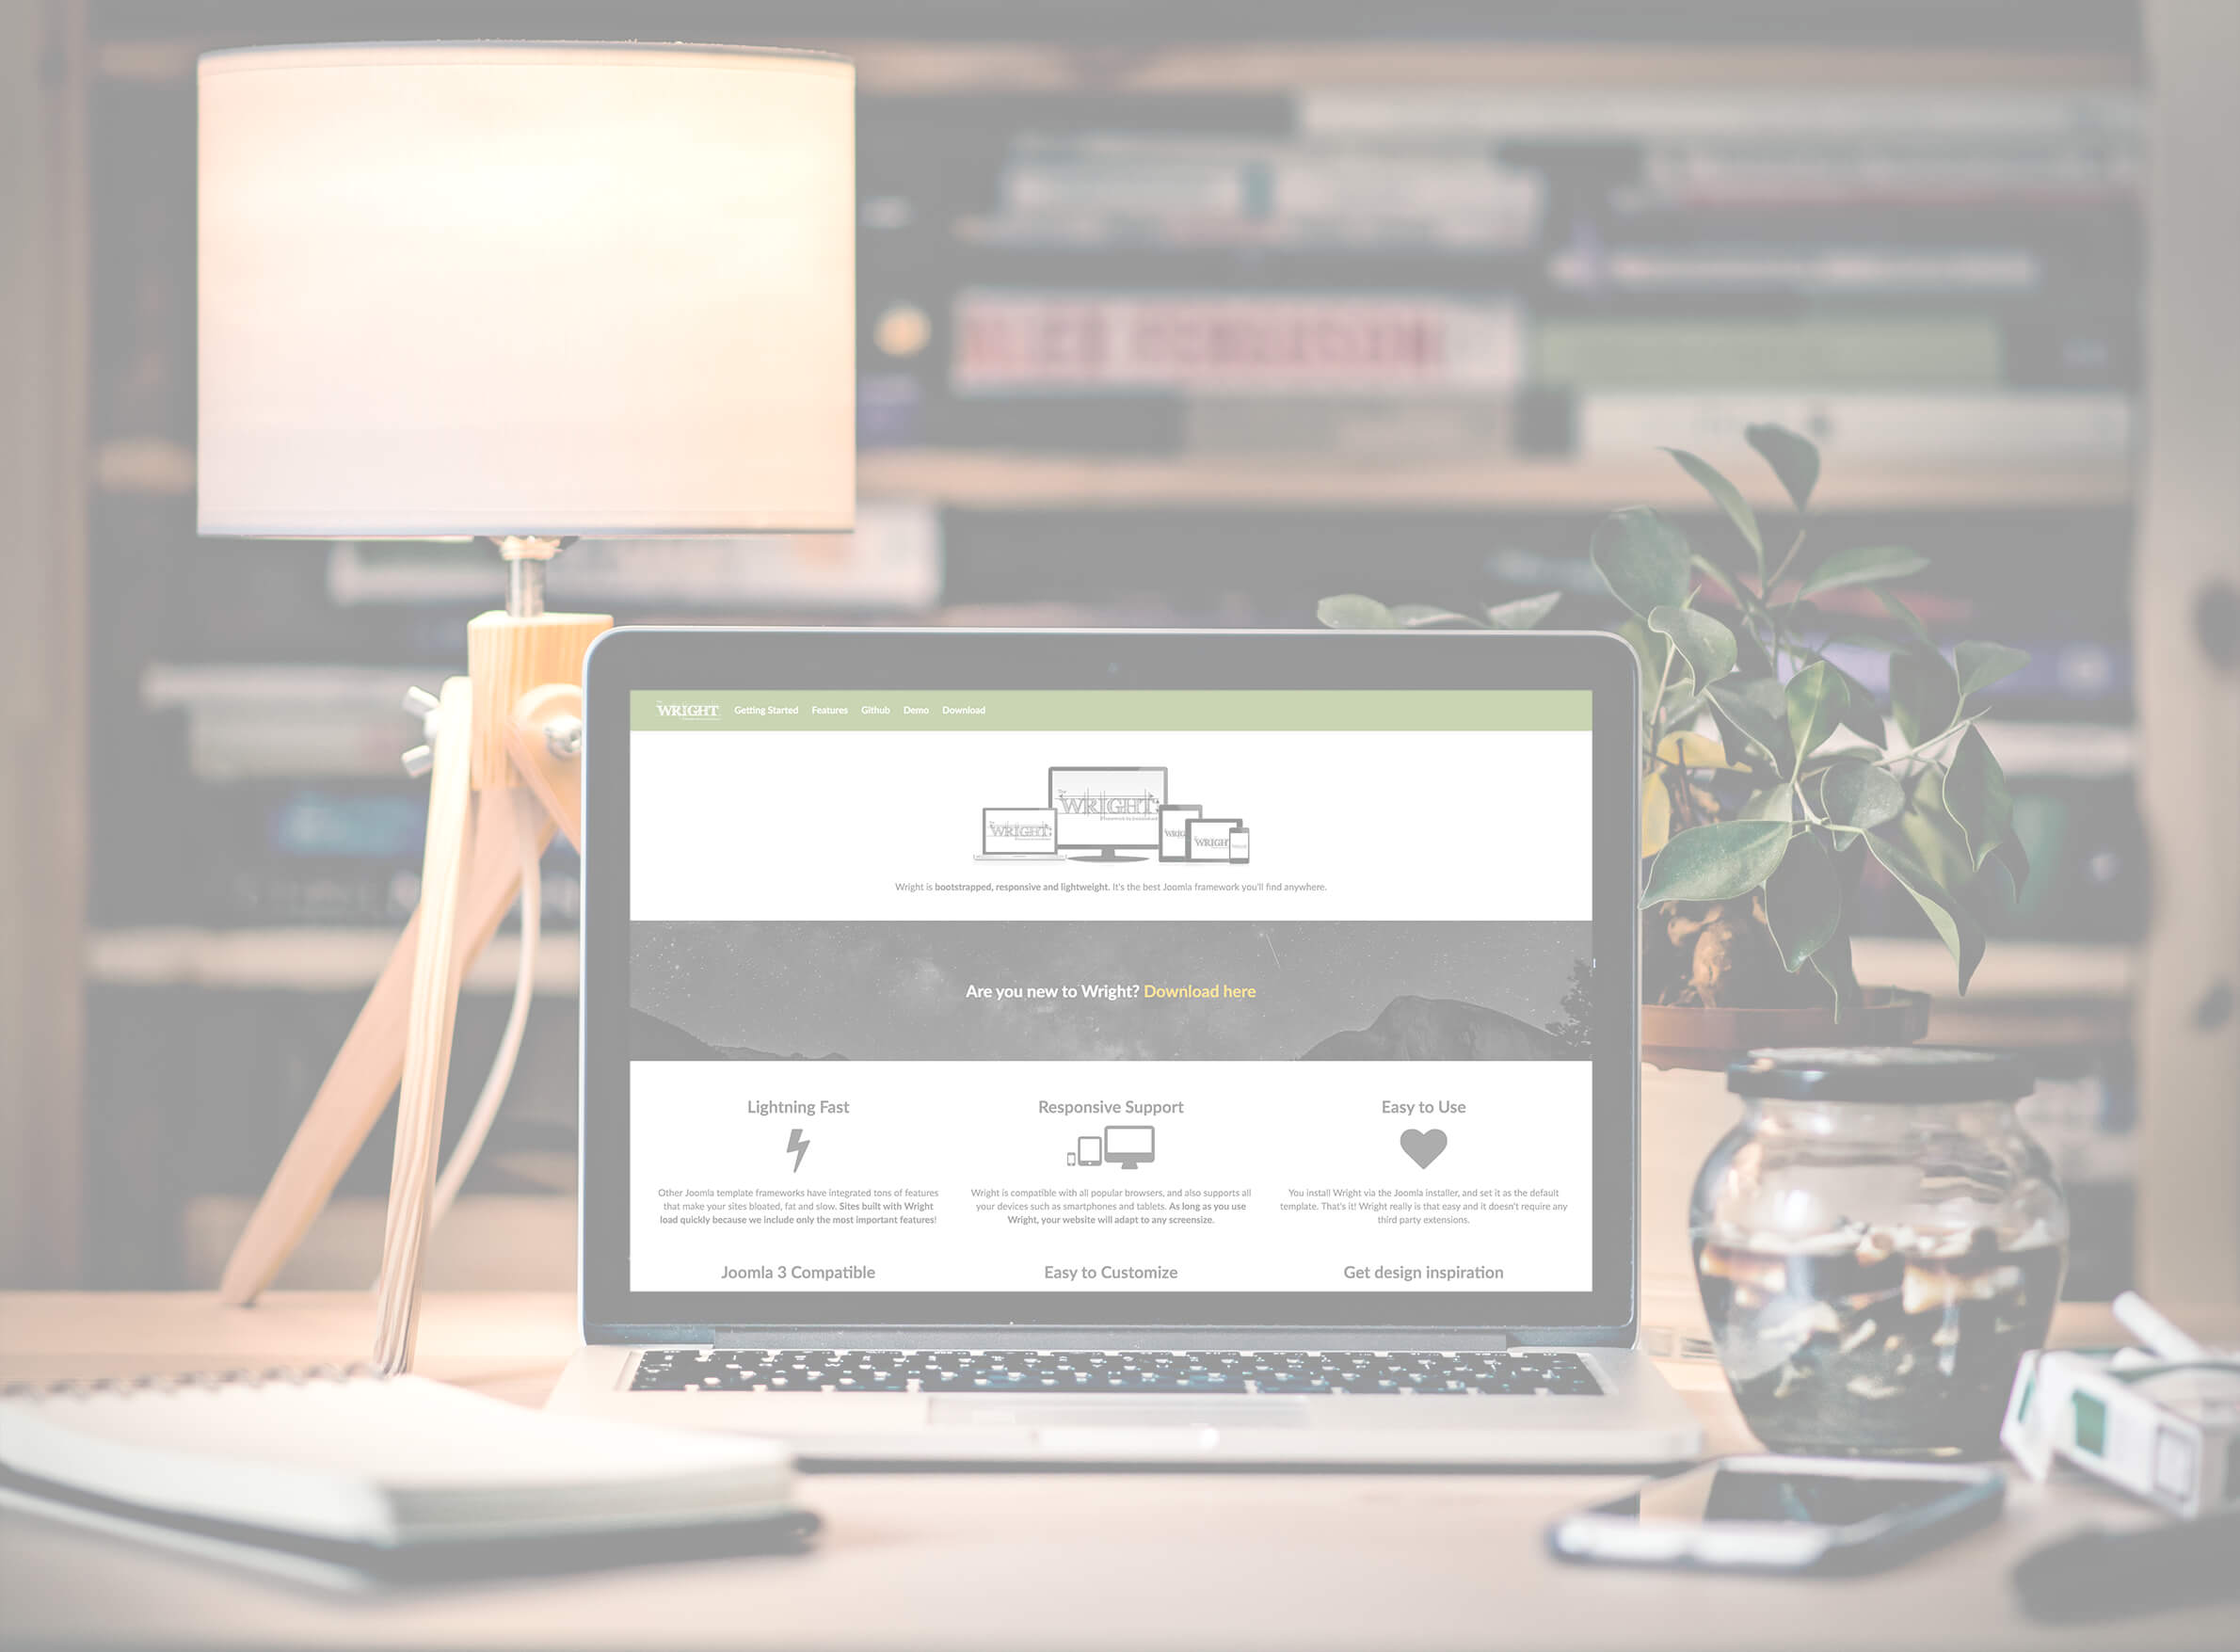
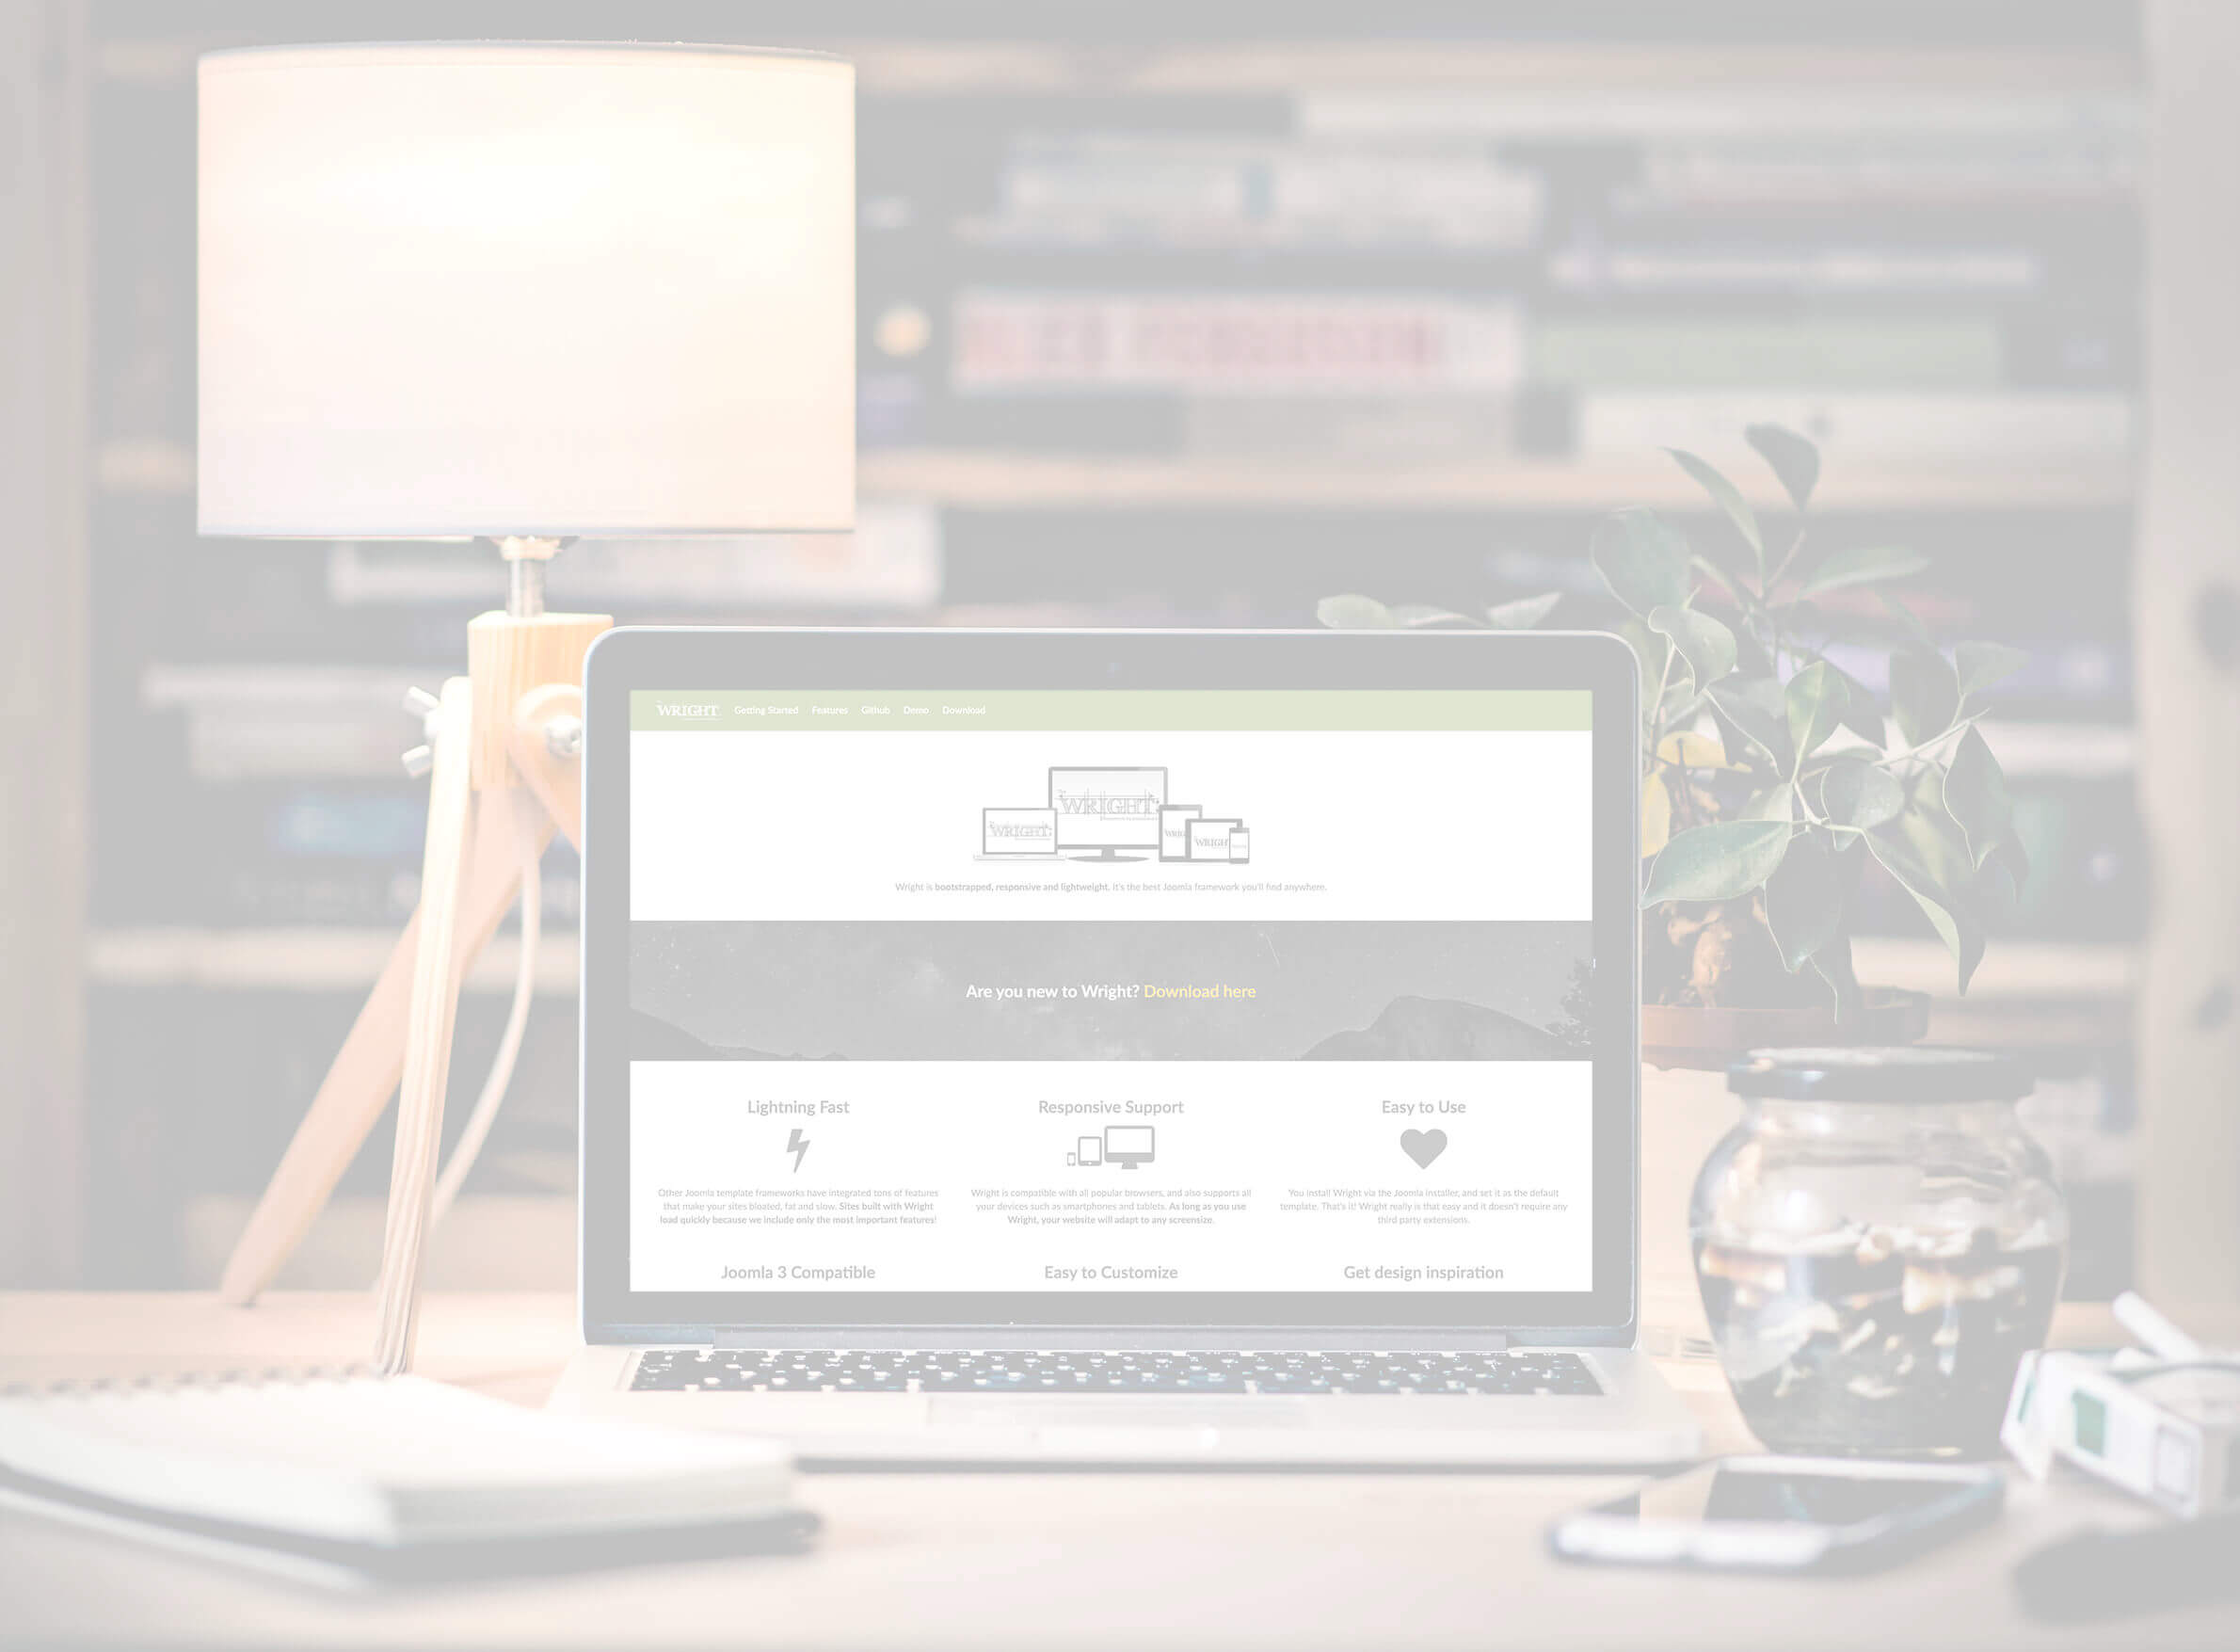
Tweaks for buttons and other minor tweaks

diff --git a/code/less/template.less b/code/less/template.less
@@ -80,7 +80,7 @@ input[type="color"],
 .nav-list {
 
 	> li > a {
-		background: @grayLighter;
+		background: rgba(51, 51, 51, 0.04);
 		margin-bottom: 1px;
 		text-shadow: none;
 		padding: 5px 15px;
@@ -122,16 +122,14 @@ input[type="color"],
 .btn {
 	.box-shadow(none);
 	border: none;
-	background: @color_one;
+	background-image: none;
 	color: @white;
 	text-shadow: none;
 	padding: 7px 15px;
 	.border-radius(4px);
 
 	&:hover,
-	&:focus,
-	&:active {
-		background: lighten(@color_one, 5%);
+	&:focus {
 		color: @white;
 		.box-shadow(none);
 	}
@@ -139,9 +137,19 @@ input[type="color"],
 	&:focus {
 		outline: none;
 	}
+
+	&.btn-link {
+		color: @color_one;
+
+		&:hover,
+		&:focus {
+			color: darken(@color_one, 5%);
+		}
+	}
 }
 
-.badge {
+.badge,
+.label {
 	text-shadow: none;
 }
 
@@ -155,12 +163,39 @@ input[type="color"],
 	margin-bottom: 30px;
 }
 
+/* Forms
+ ========================================================================== */
+
+textarea,
+input[type="text"],
+input[type="password"],
+input[type="datetime"],
+input[type="datetime-local"],
+input[type="date"],
+input[type="month"],
+input[type="time"],
+input[type="week"],
+input[type="number"],
+input[type="email"],
+input[type="url"],
+input[type="search"],
+input[type="tel"],
+input[type="color"],
+.uneditable-input {
+	.box-shadow(none);
+}
+
+#search-searchword {
+	padding: 6px 10px;
+}
+
 /* Articles
  ========================================================================== */
 
 p.readmore {
 	float: none;
 	margin-bottom: 20px;
+	clear: unset;
 
 	.icon-chevron-right {
 		display: none;
@@ -228,6 +263,31 @@ p.readmore {
 			}
 		}
 	}
+}
+
+dl.article-info {
+	color: @gray;
+
+	dd {
+
+		&:first-of-type {
+			padding-left: 0;
+		}
+
+		&:hover,
+		> div:hover {
+			background-color: transparent;
+		}
+	}
+}
+
+.item-page .item-image {
+	margin-bottom: 20px;
+}
+
+.items-more h3 {
+	padding-left: 0;
+	padding-right: 0;
 }
 
 /* Header
@@ -315,6 +375,22 @@ p.readmore {
 	background-repeat: no-repeat;
 	background-attachment: fixed;
 	padding: 80px 30px;
+
+	p,
+	h1,
+	h2,
+	h3,
+	h4 {
+		margin-top: 0;
+
+		&:last-child {
+			margin-bottom: 0;
+		}
+	}
+
+	.badge {
+		background: @grayDark;
+	}
 }
 
 .module-background-light {
@@ -424,6 +500,25 @@ p.readmore {
 .module-white,
 .moduletable-white {
 	background: @white;
+}
+
+.breadcrumb {
+	.border-radius(0);
+	border-top: 2px solid @color_one;
+	background: transparent;
+	padding: 15px 0;
+
+	> li {
+		text-shadow: none;
+
+		> .divider {
+			color: @gray;
+		}
+	}
+
+	> .active {
+		color: @gray;
+	}
 }
 
 /* Custom

diff --git a/code/less/variables-blue.less b/code/less/variables-blue.less
@@ -112,12 +112,12 @@
 
 // Buttons
 // -------------------------
-@btnBackground:                     @white;
-@btnBackgroundHighlight:            darken(@white, 10%);
+@btnBackground:                     @color_one;
+@btnBackgroundHighlight:            darken(@color_one, 5%);
 @btnBorder:                         #ccc;
 
-@btnPrimaryBackground:              @linkColor;
-@btnPrimaryBackgroundHighlight:     spin(@btnPrimaryBackground, 20%);
+@btnPrimaryBackground:              darken(@linkColor, 8%);
+@btnPrimaryBackgroundHighlight:     darken(@linkColor, 13%);
 
 @btnInfoBackground:                 #5bc0de;
 @btnInfoBackgroundHighlight:        #2f96b4;

diff --git a/code/less/variables-green.less b/code/less/variables-green.less
@@ -112,12 +112,12 @@
 
 // Buttons
 // -------------------------
-@btnBackground:                     @white;
-@btnBackgroundHighlight:            darken(@white, 10%);
+@btnBackground:                     @color_one;
+@btnBackgroundHighlight:            darken(@color_one, 5%);
 @btnBorder:                         #ccc;
 
-@btnPrimaryBackground:              @linkColor;
-@btnPrimaryBackgroundHighlight:     spin(@btnPrimaryBackground, 20%);
+@btnPrimaryBackground:              darken(@linkColor, 8%);
+@btnPrimaryBackgroundHighlight:     darken(@linkColor, 13%);
 
 @btnInfoBackground:                 #5bc0de;
 @btnInfoBackgroundHighlight:        #2f96b4;

diff --git a/code/less/variables-red.less b/code/less/variables-red.less
@@ -112,12 +112,12 @@
 
 // Buttons
 // -------------------------
-@btnBackground:                     @white;
-@btnBackgroundHighlight:            darken(@white, 10%);
+@btnBackground:                     @color_one;
+@btnBackgroundHighlight:            darken(@color_one, 5%);
 @btnBorder:                         #ccc;
 
-@btnPrimaryBackground:              @linkColor;
-@btnPrimaryBackgroundHighlight:     spin(@btnPrimaryBackground, 20%);
+@btnPrimaryBackground:              darken(@linkColor, 8%);
+@btnPrimaryBackgroundHighlight:     darken(@linkColor, 13%);
 
 @btnInfoBackground:                 #5bc0de;
 @btnInfoBackgroundHighlight:        #2f96b4;
